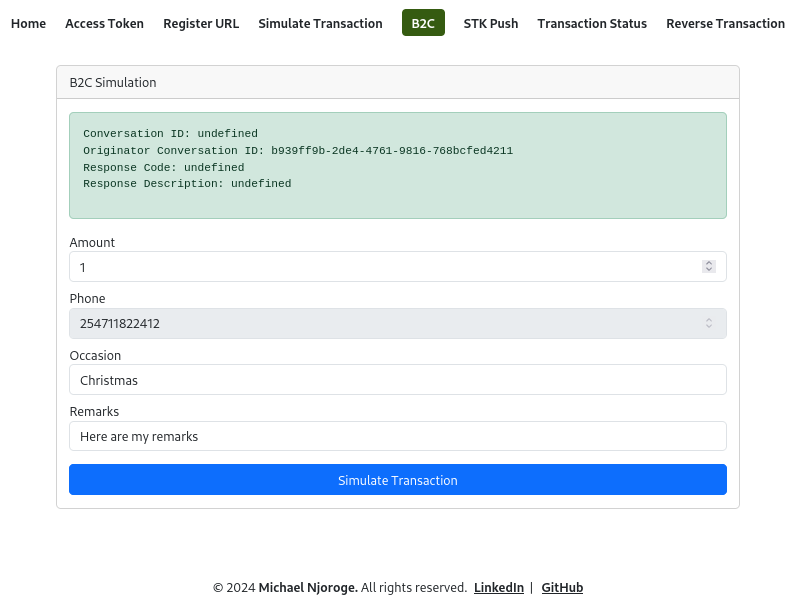
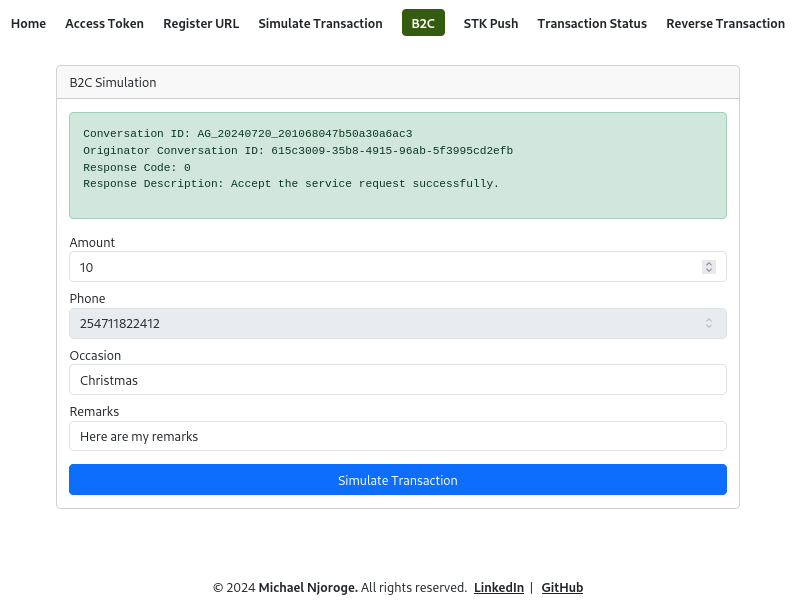
final commit on intergration on mpesa-stk apis with vue

Changed region(s): [[0.25, 0.2079, 0.6562, 0.2673], [0.2188, 0.2673, 0.625, 0.3267]]

diff --git a/src/views/B2CPage.vue b/src/views/B2CPage.vue
@@ -18,7 +18,7 @@
             <form @submit.prevent="simulateb2c" id="b2c-form">
               <div class="form-group my-2">
                 <label for="amount">Amount</label>
-                <input v-model="form.amount" type="number" name="amount" required class="form-control">
+                <input v-model="form.amount" type="number" min="10" name="amount" required class="form-control">
               </div>
               <div class="form-group my-2">
                 <label for="phone">Phone</label>
